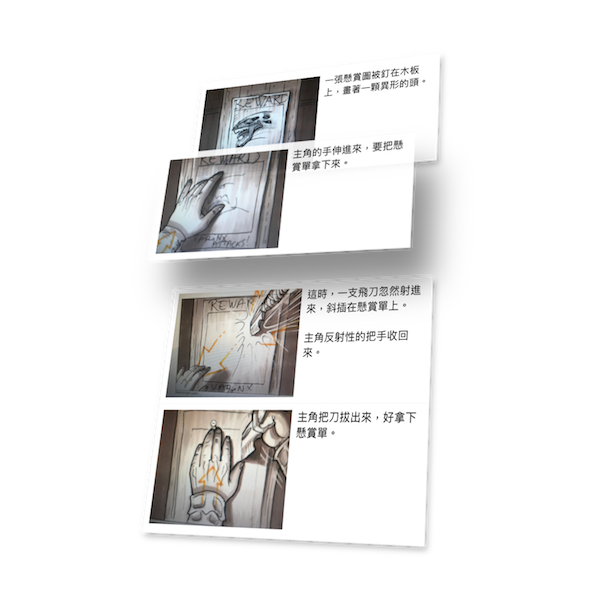
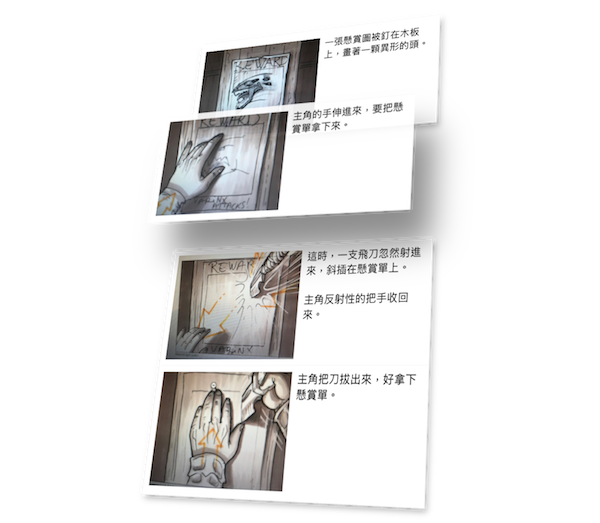
Minor changes.

Changed region(s): [[0.24, 0.4589, 0.72, 0.979], [0.24, 0.0306, 0.75, 0.4589]]

diff --git a/shared.css b/shared.css
@@ -74,7 +74,7 @@ section p {
 }
 
 #sluglineSection, #aboutUsSection {
-	padding: 50px 50px 100px;
+	padding: 10px 50px;
 }
 
 #sluglineSection {
@@ -86,8 +86,8 @@ section p {
 }
 
 #sluglineSection article, #aboutUsSection article {
-	padding-top: 50px;
-	padding-bottom: 150px;
+	padding-top: 0px;
+	padding-bottom: 200px;
 }
 
 #sluglineSection img {
